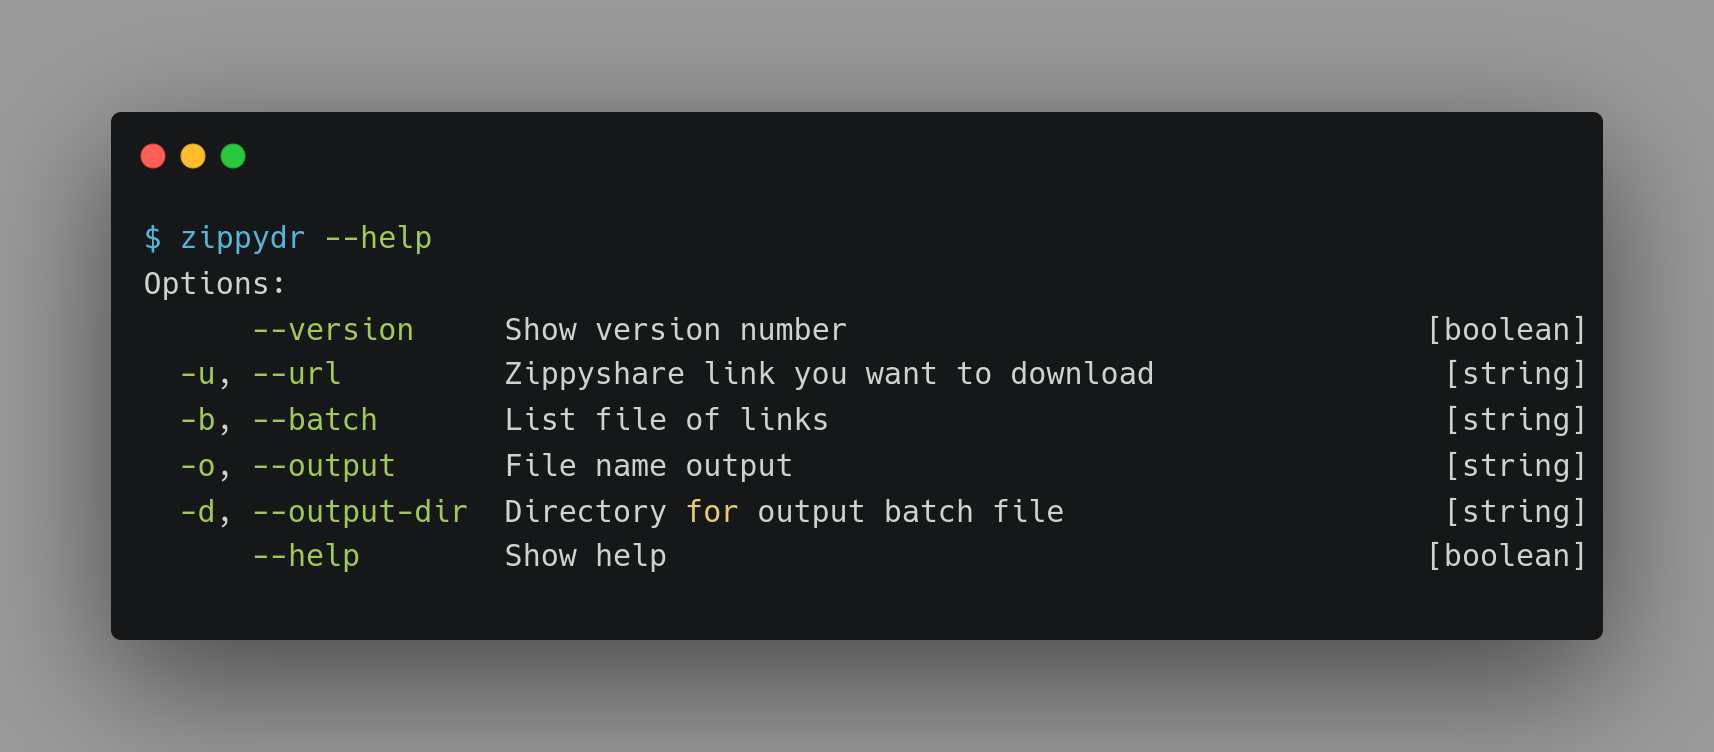
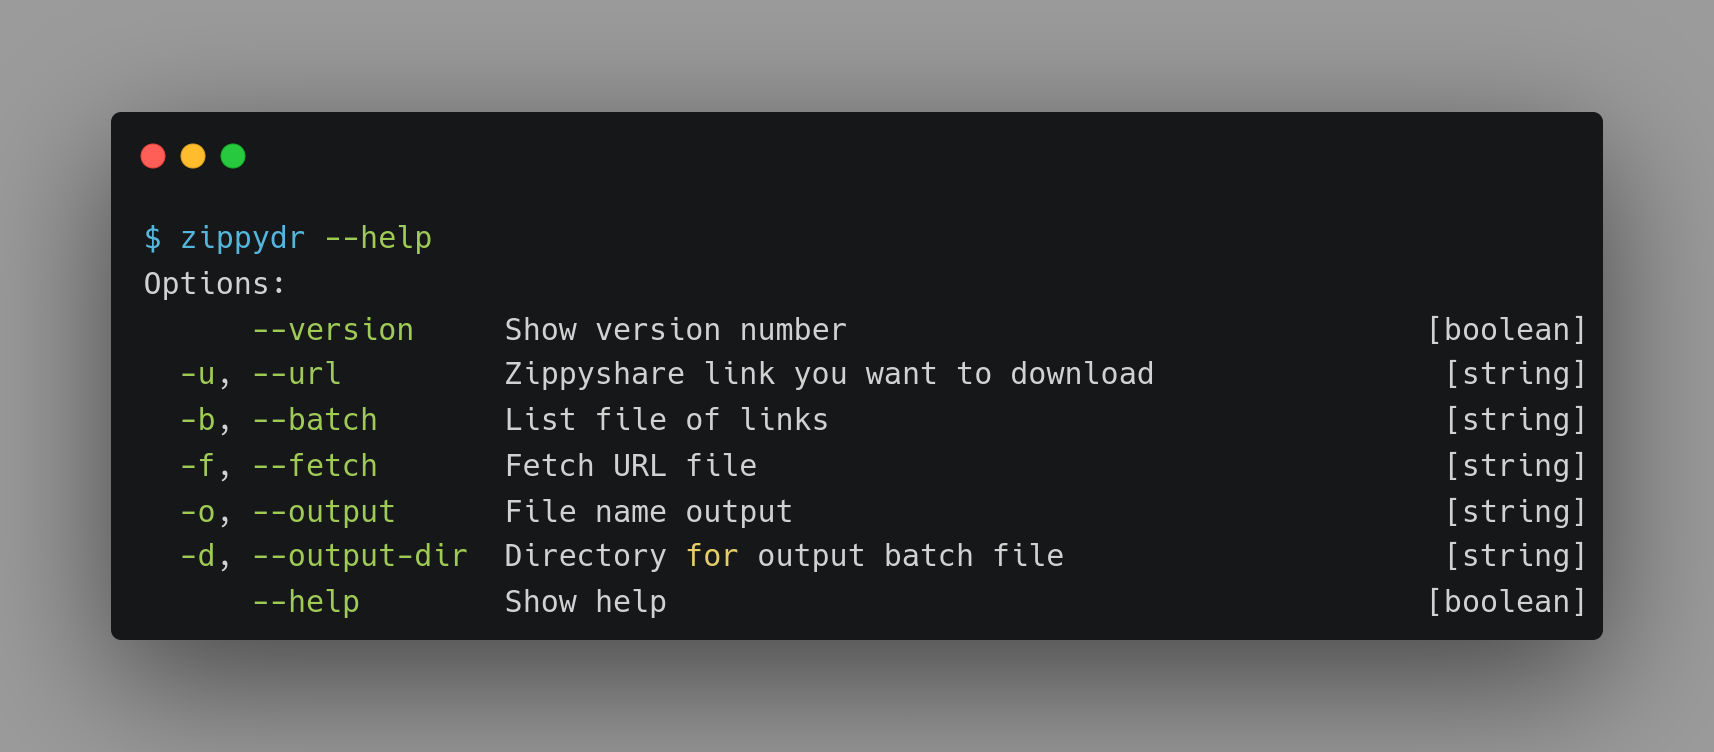
Change version

diff --git a/README.md b/README.md
@@ -42,6 +42,11 @@ a simple CLI application to download file from Zippyshare site, you can easily d
    zippydr --help
 ```
 
+### Fetch URL file
+```bash
+   zippydr -f <link>
+```
+
 ### Download file
 ```bash
    zippydr -u <link>
